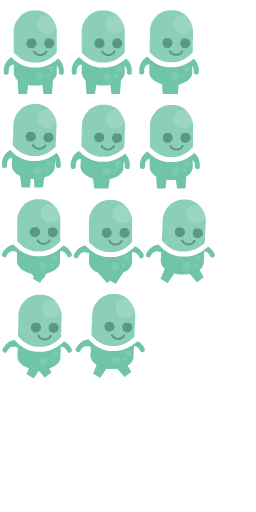
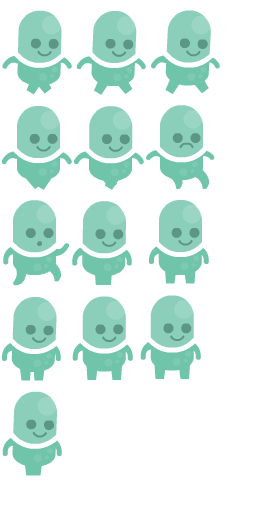
Better jump animation, stop handling down key

Changed region(s): [[0.0, 0.0, 0.875, 0.9375], [0.0938, 0.0, 0.125, 0.0312]]

diff --git a/main.js b/main.js
@@ -42,16 +42,7 @@ Main.prototype = {
 		background.width = 800;
 		background.height = 600;
 		this._stage.addChild(background);
-		var textures;
-		var _g = [];
-		var _g1 = 1;
-		while(_g1 < 11) {
-			var i = _g1++;
-			_g.push(PIXI.Texture.fromFrame("p1_walk" + StringTools.lpad(i == null?"null":"" + i,"0",2) + ".png"));
-		}
-		textures = _g;
-		var playerSprite = new PIXI.MovieClip(textures);
-		playerSprite.pivot.set(textures[0].width * .5,0);
+		var playerSprite = component.StatefulDisplay.buildPlayerSprite();
 		var playerEntity = new ash.core.Entity();
 		playerEntity.add(new component.Display(playerSprite));
 		playerEntity.add(new component.StatefulDisplay(playerSprite));
@@ -59,7 +50,7 @@ Main.prototype = {
 		playerEntity.add(new component.Position(400,0));
 		playerEntity.add(new component.KeyboardControlled());
 		playerEntity.add(new component.Velocity());
-		playerEntity.add(new component.Box(textures[0].width | 0,textures[0].height | 0));
+		playerEntity.add(new component.Box(playerSprite.width | 0,playerSprite.height | 0));
 		playerEntity.add(new component.Oriented(component.Orientation.Right));
 		this._engine.addEntity(playerEntity);
 	}
@@ -1086,6 +1077,7 @@ component.MovementType.Jump = ["Jump",2];
 component.MovementType.Jump.__enum__ = component.MovementType;
 component.Movement = function(current) {
 	this.set_value(current);
+	this.invalidated = true;
 };
 $hxClasses["component.Movement"] = component.Movement;
 component.Movement.__name__ = ["component","Movement"];
@@ -1123,18 +1115,45 @@ component.Position.prototype = {
 };
 component.StatefulDisplay = function(movie) {
 	this._movieClip = movie;
+	this._movieClip.animationSpeed = .5;
+	this._jumpTexture = PIXI.Texture.fromFrame("p1_jump.png");
 };
 $hxClasses["component.StatefulDisplay"] = component.StatefulDisplay;
 component.StatefulDisplay.__name__ = ["component","StatefulDisplay"];
+component.StatefulDisplay.buildPlayerSprite = function() {
+	var textures;
+	var _g = [];
+	var _g1 = 1;
+	while(_g1 < 11) {
+		var i = _g1++;
+		_g.push(PIXI.Texture.fromFrame("p1_walk" + StringTools.lpad(i == null?"null":"" + i,"0",2) + ".png"));
+	}
+	textures = _g;
+	var playerSprite = new PIXI.MovieClip(textures);
+	playerSprite.pivot.set(textures[0].width * .5,0);
+	return playerSprite;
+};
 component.StatefulDisplay.prototype = {
 	walk: function() {
+		if(this._jumpFlag) {
+			this._jumpFlag = false;
+			this._movieClip.textures.shift();
+		}
 		this._movieClip.play();
 	}
 	,jump: function() {
-		this._movieClip.gotoAndStop(6);
+		if(!this._jumpFlag) {
+			this._jumpFlag = true;
+			this._movieClip.textures.unshift(this._jumpTexture);
+			this._movieClip.gotoAndStop(0);
+		}
 	}
 	,stop: function() {
-		this._movieClip.gotoAndStop(0);
+		if(this._jumpFlag) {
+			this._jumpFlag = false;
+			this._movieClip.textures.shift();
+		}
+		this._movieClip.gotoAndStop(9);
 	}
 	,__class__: component.StatefulDisplay
 };
@@ -1547,14 +1566,12 @@ system.DisplaySystem.prototype = $extend(ash.tools.ListIteratingSystem.prototype
 	}
 	,__class__: system.DisplaySystem
 });
-system.ArrowKey = { __ename__ : true, __constructs__ : ["Up","Down","Left","Right"] };
+system.ArrowKey = { __ename__ : true, __constructs__ : ["Up","Left","Right"] };
 system.ArrowKey.Up = ["Up",0];
 system.ArrowKey.Up.__enum__ = system.ArrowKey;
-system.ArrowKey.Down = ["Down",1];
-system.ArrowKey.Down.__enum__ = system.ArrowKey;
-system.ArrowKey.Left = ["Left",2];
+system.ArrowKey.Left = ["Left",1];
 system.ArrowKey.Left.__enum__ = system.ArrowKey;
-system.ArrowKey.Right = ["Right",3];
+system.ArrowKey.Right = ["Right",2];
 system.ArrowKey.Right.__enum__ = system.ArrowKey;
 system.KeyboardControlSystem = function(window) {
 	ash.tools.ListIteratingSystem.call(this,node.KeyboardControlNode,$bind(this,this.updateNode));
@@ -1573,10 +1590,6 @@ system.KeyboardControlSystem.prototype = $extend(ash.tools.ListIteratingSystem.p
 			this._keyStack.remove(system.ArrowKey.Up);
 			this._keyStack.add(system.ArrowKey.Up);
 			break;
-		case "Down":
-			this._keyStack.remove(system.ArrowKey.Down);
-			this._keyStack.add(system.ArrowKey.Down);
-			break;
 		case "Left":
 			this._keyStack.remove(system.ArrowKey.Left);
 			this._keyStack.add(system.ArrowKey.Left);
@@ -1594,9 +1607,6 @@ system.KeyboardControlSystem.prototype = $extend(ash.tools.ListIteratingSystem.p
 			this._keyStack.remove(system.ArrowKey.Up);
 			this._lockUp = false;
 			break;
-		case "Down":
-			this._keyStack.remove(system.ArrowKey.Down);
-			break;
 		case "Left":
 			this._keyStack.remove(system.ArrowKey.Left);
 			break;
@@ -1612,13 +1622,13 @@ system.KeyboardControlSystem.prototype = $extend(ash.tools.ListIteratingSystem.p
 				if(node.movement != null && node.movement.value != component.MovementType.Still) node.movement.set_value(component.MovementType.Still);
 			}
 		} else switch(_g[1]) {
-		case 2:
+		case 1:
 			if(node.position.downToGround) {
 				if(node.movement != null && node.movement.value != component.MovementType.Walking) node.movement.set_value(component.MovementType.Walking);
 				node.velocity.xAxis--;
 			}
 			break;
-		case 3:
+		case 2:
 			if(node.position.downToGround) {
 				if(node.movement != null && node.movement.value != component.MovementType.Walking) node.movement.set_value(component.MovementType.Walking);
 				node.velocity.xAxis++;
@@ -1630,8 +1640,6 @@ system.KeyboardControlSystem.prototype = $extend(ash.tools.ListIteratingSystem.p
 				var jumpHeight = 10 + Math.abs(node.velocity.xAxis) * .5;
 				node.velocity.yAxis = Std["int"](Math.min(20,jumpHeight));
 			}
-			break;
-		case 1:
 			break;
 		}
 	}
